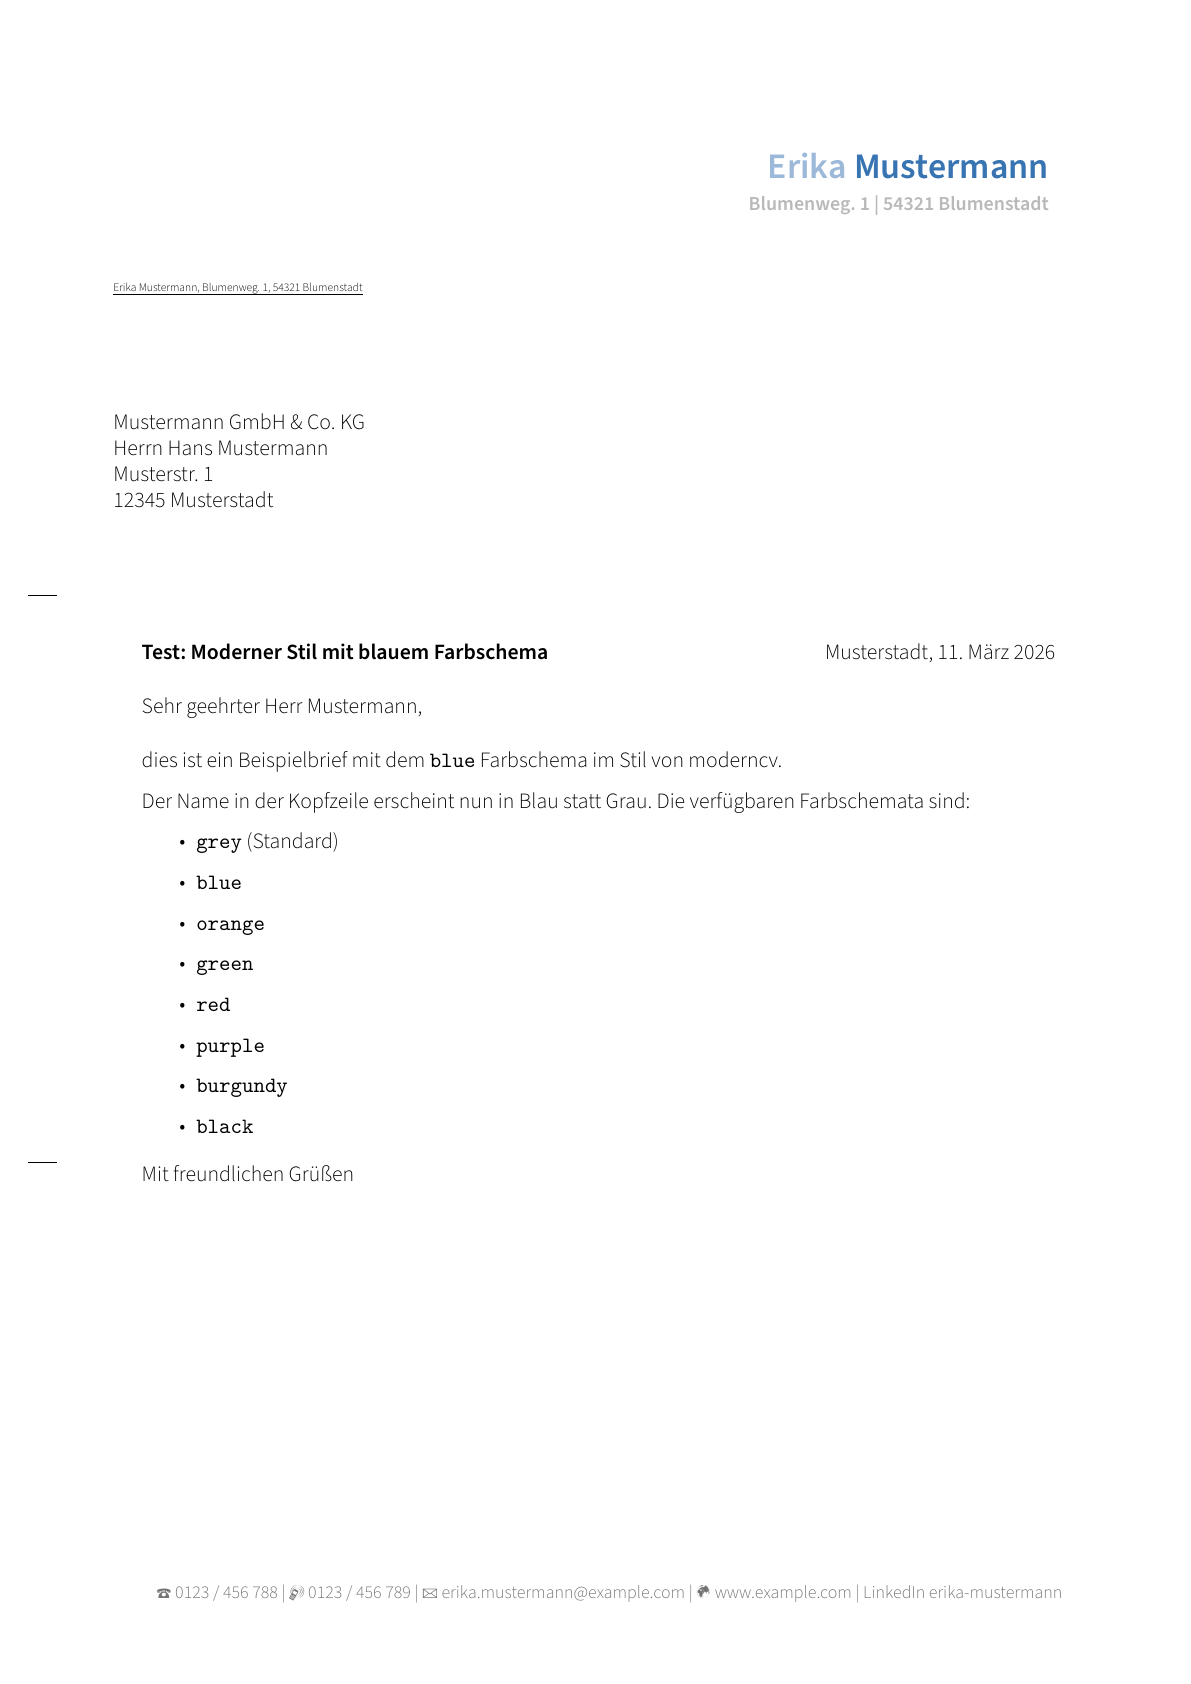
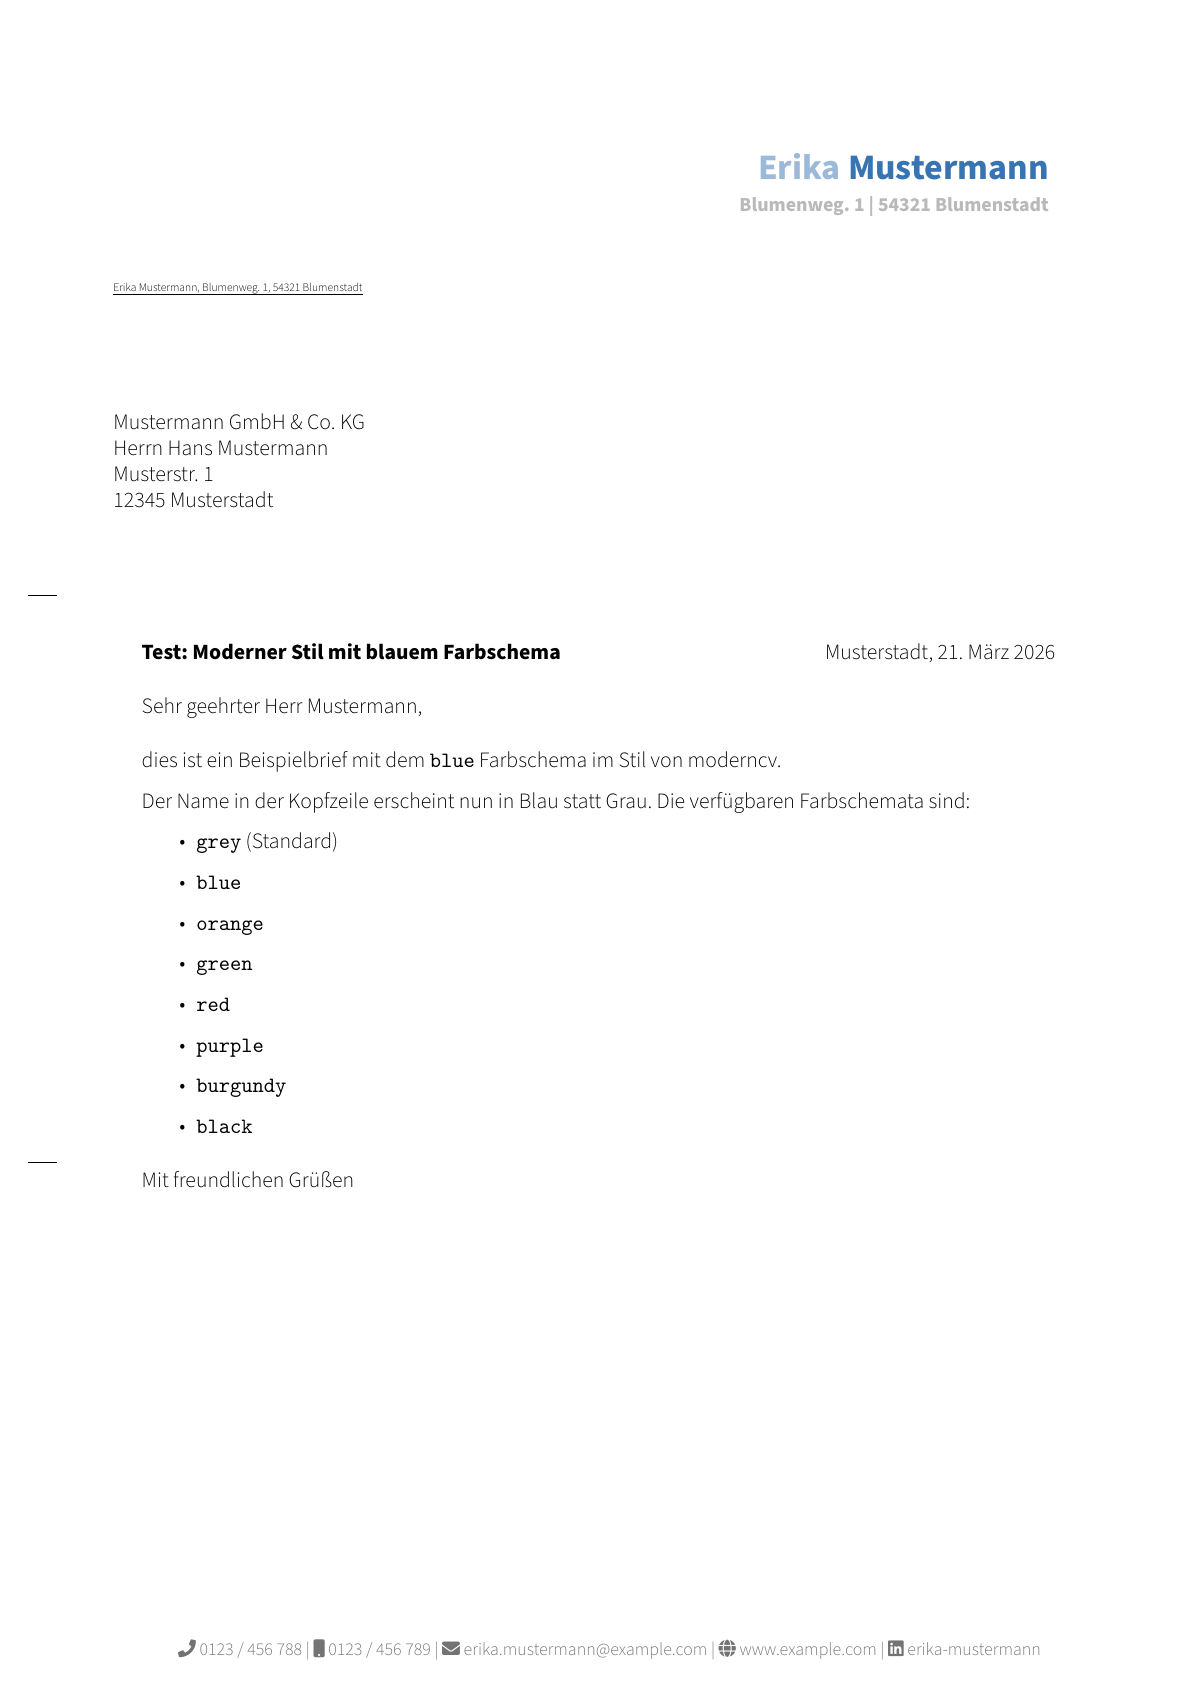
Lower modern footer and refresh preview

diff --git a/CHANGELOG.md b/CHANGELOG.md
@@ -24,6 +24,8 @@ und dieses Projekt nutzt Datumsversionen passend zu den CTAN-Releases (YYYY-MM-D
 - Toter `\ifPDFTeX`-Zweig beim Laden der Modern-Stil-Pakete entfernt; beide
   Zweige luden `sourcesanspro` identisch
 - CTAN-README um Maintainer-Namen und Kontakt-URLs erweitert
+- Footer im modernen Stil naeher an den unteren Seitenrand gesetzt; die
+  README-Vorschau fuer `modern-blue` wurde entsprechend aktualisiert
 
 ### Intern
 - `verify.sh` prueft Signatur-Regression und moderne Beispiel-PDFs jetzt
